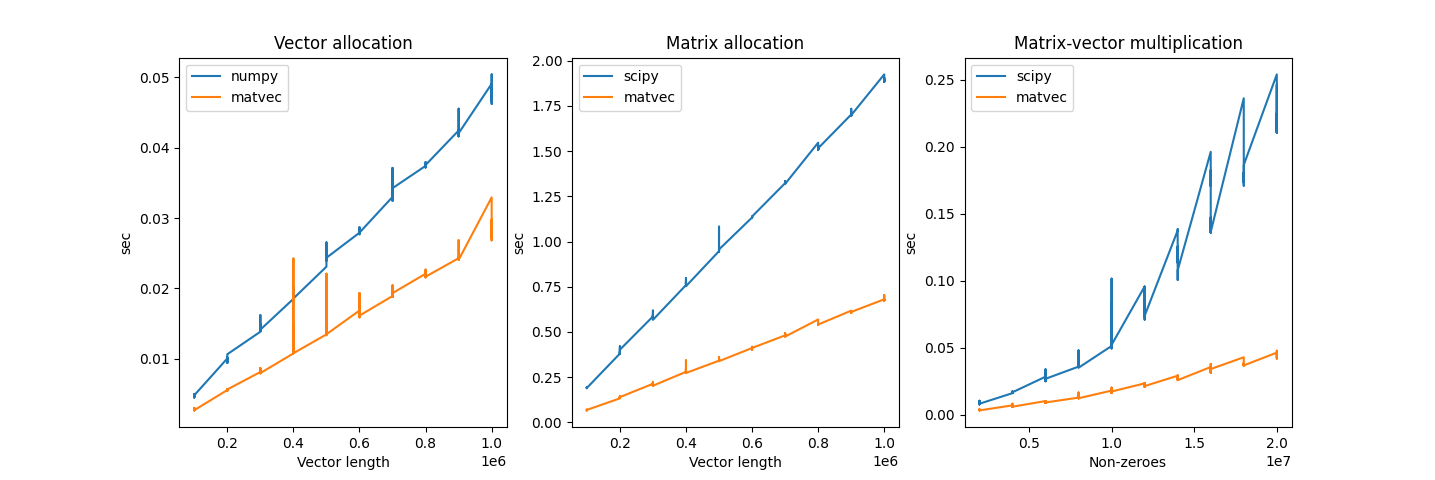
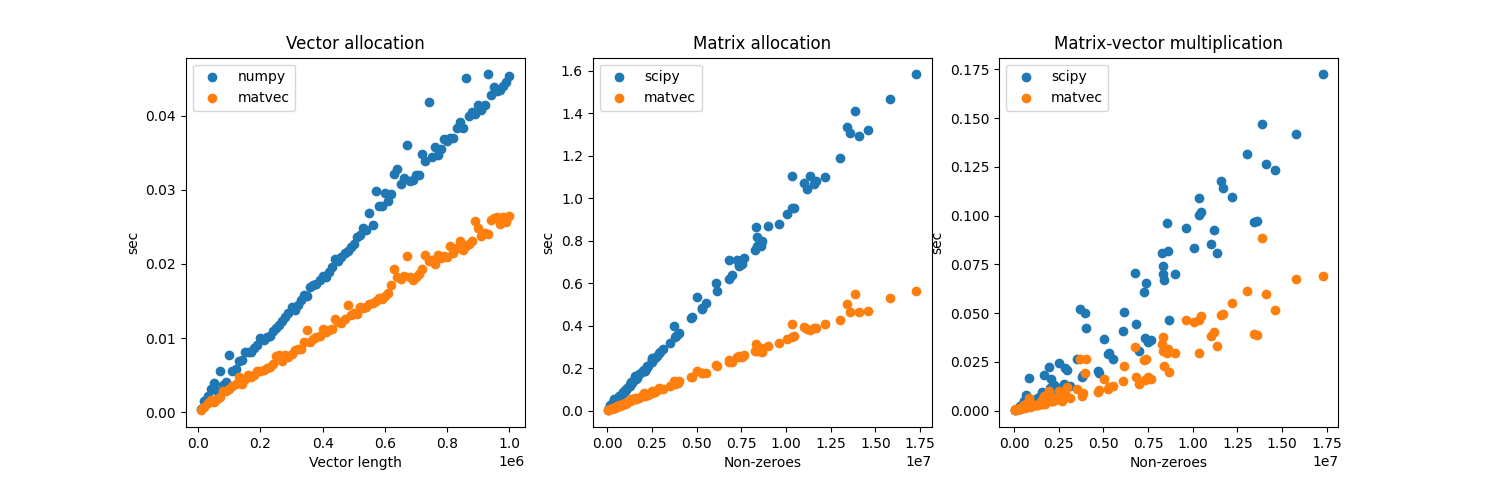
reverted to working version

diff --git a/matvec.cpp b/matvec.cpp
@@ -28,20 +28,13 @@
 std::unordered_map<sizetype, std::vector<valuetype*>*> reusable;
 
 valuetype* allocate_values(sizetype size) {
-    valuetype* pending_values = NULL;
-    #pragma omp critical
-    {
-        if(reusable.find(size)!=reusable.end() && reusable[size]->size()>0) {
-            pending_values = reusable[size]->back();
-            reusable[size]->pop_back();
-        }
+    valuetype* pending_values;
+    if(reusable.find(size)!=reusable.end() && reusable[size]->size()>0) {
+        pending_values = reusable[size]->back();
+        reusable[size]->pop_back();
     }
-    if(pending_values==NULL) {
-        #pragma omp critical
-        {
-            pending_values = new valuetype[size];
-        }
-    }
+    else
+        pending_values = new valuetype[size];
     return pending_values;
 }
 
@@ -136,57 +129,6 @@ extern "C" EXPORT void* multiply(void* _matrix, void* _vector) {
     sizetype* y = matrix->y;
     valuetype* mv = matrix->values;
     valuetype* vv = vector->values;
-    sizetype entries = matrix->entries;
-
-    if(reusable.find(size)==reusable.end())
-        reusable[size] = new std::vector<valuetype*>();
-
-    valuetype** intermediates;
-    int nthreads;
-    #pragma omp parallel shared(intermediates, nthreads, mv, vv, x, y, size)
-    {
-        #pragma omp single
-        {
-            nthreads = omp_get_num_threads();
-            intermediates = new valuetype*[nthreads];
-        }
-        const int ithread = omp_get_thread_num();
-        valuetype* intermediate = allocate_values(size);
-        intermediates[ithread] = intermediate;
-        const sizetype thread_entries = entries/nthreads;
-        const sizetype thread_start = thread_entries*ithread;
-        const sizetype thread_end = (ithread==nthreads-1)?entries:(thread_entries*ithread);
-        for(sizetype j=0;j<size;j++)
-            intermediate[j] = 0;
-        for(sizetype j=thread_start;j<thread_end;j++)
-            intermediate[x[j]] += mv[j]*vv[y[j]];
-    }
-
-    valuetype* ret = intermediates[0];
-    for(int ithread=1;ithread<nthreads;ithread++) {
-        valuetype* intermediate = intermediates[ithread];
-        sizetype i;
-        #pragma omp parallel for shared(size, ret, intermediate) private(i)
-        for(i=0;i<size;i++) {
-            ret[i] += intermediate[i];
-        }
-    }
-    for(int ithread=1;ithread<nthreads;ithread++)
-        reusable[size]->push_back(intermediates[ithread]);
-    delete intermediates;
-
-    return new Vector(ret, size, false);
-}
-
-
-extern "C" EXPORT void* slim_multiply(void* _matrix, void* _vector) {
-    Matrix* matrix = (Matrix*)_matrix;
-    Vector* vector = (Vector*)_vector;
-    sizetype size = vector->size;
-    sizetype* x = matrix->x;
-    sizetype* y = matrix->y;
-    valuetype* mv = matrix->values;
-    valuetype* vv = vector->values;
     valuetype* ret = allocate_values(size);//new valuetype[size]();
     sizetype i;
     #pragma omp parallel for shared(size, ret) private(i)
@@ -194,13 +136,28 @@ extern "C" EXPORT void* slim_multiply(void* _matrix, void* _vector) {
         ret[i] = 0;
     sizetype entries = matrix->entries;
     #pragma omp parallel for shared(entries, ret, x, y, mv, vv) private(i)
-    for(i=0;i<entries;i++)
-        ret[x[i]] += mv[i]*vv[y[i]];
+    for(i=0;i<entries;i++) {
+        valuetype val = mv[i]*vv[y[i]];
+        #pragma omp atomic
+        ret[x[i]] += val;
+    }
+    /*
+    sizetype row;
+    #pragma omp parallel for shared(entries, ret, x, y, mv, vv, matrix) private(row)
+    for(row=0;row<size;row++) {
+        std::vector<sizetype>* adjacent = matrix->row_indexes[row];
+        std::cout<<row<" row\n";
+        for(int j=0;j<adjacent->size();i++) {
+            i = adjacent->at(j);
+            ret[row] += mv[i]*vv[y[i]];
+        }
+    }*/
+
     return new Vector(ret, size, false);
 }
 
 
-extern "C" EXPORT void* slim_rmultiply(void* _matrix, void* _vector) {
+extern "C" EXPORT void* rmultiply(void* _matrix, void* _vector) {
     Matrix* matrix = (Matrix*)_matrix;
     Vector* vector = (Vector*)_vector;
     sizetype size = vector->size;
@@ -217,57 +174,6 @@ extern "C" EXPORT void* slim_rmultiply(void* _matrix, void* _vector) {
     #pragma omp parallel for shared(entries, ret, x, y, mv, vv) private(i)
     for(i=0;i<entries;i++)
         ret[y[i]] += mv[i]*vv[x[i]];
-    return new Vector(ret, size, false);
-}
-
-
-extern "C" EXPORT void* rmultiply(void* _matrix, void* _vector) {
-    Matrix* matrix = (Matrix*)_matrix;
-    Vector* vector = (Vector*)_vector;
-    sizetype size = vector->size;
-    sizetype* x = matrix->x;
-    sizetype* y = matrix->y;
-    valuetype* mv = matrix->values;
-    valuetype* vv = vector->values;
-    sizetype entries = matrix->entries;
-
-    if(reusable.find(size)==reusable.end())
-        reusable[size] = new std::vector<valuetype*>();
-
-    valuetype** intermediates;
-    int nthreads;
-    #pragma omp parallel shared(intermediates, nthreads, mv, vv, x, y, size)
-    {
-        #pragma omp single
-        {
-            nthreads = omp_get_num_threads();
-            intermediates = new valuetype*[nthreads];
-        }
-        const int ithread = omp_get_thread_num();
-        valuetype* intermediate = allocate_values(size);
-        intermediates[ithread] = intermediate;
-        const sizetype thread_entries = entries/nthreads;
-        const sizetype thread_start = thread_entries*ithread;
-        const sizetype thread_end = (ithread==nthreads-1)?entries:(thread_entries*ithread);
-        for(sizetype j=0;j<size;j++)
-            intermediate[j] = 0;
-        for(sizetype j=thread_start;j<thread_end;j++)
-            intermediate[y[j]] += mv[j]*vv[x[j]];
-    }
-
-    valuetype* ret = intermediates[0];
-    for(int ithread=1;ithread<nthreads;ithread++) {
-        valuetype* intermediate = intermediates[ithread];
-        sizetype i;
-        #pragma omp parallel for shared(size, ret, intermediate) private(i)
-        for(i=0;i<size;i++) {
-            ret[i] += intermediate[i];
-        }
-    }
-    for(int ithread=1;ithread<nthreads;ithread++)
-        reusable[size]->push_back(intermediates[ithread]);
-    delete intermediates;
-
     return new Vector(ret, size, false);
 }
 

diff --git a/benchmarks.py b/benchmarks.py
@@ -17,7 +17,7 @@ class Timer:
         self._tic = time()
 
     def __exit__(self, exc_type, exc_val, exc_tb):
-        #matvec.clear()  # cold-start performance
+        matvec.clear()  # cold-start performance
         self.values.append(time()-self._tic)
 
     def mean(self):
@@ -30,11 +30,13 @@ matvec_vector_allocation = Timer()
 matvec_matrix_allocation = Timer()
 matvec_multiply = Timer()
 datasize = list()
+nnzs = list()
 
 for iter in tqdm(range(0, 100)):
-    volume = 100000*(iter//10+1)
+    volume = 10000*(1+iter)
     datasize.append(volume)
-    density = 20#1+random.choice(list(range(20)))
+    density = 1+random.choice(list(range(20)))
+    nnzs.append(volume*density)
     x = np.random.choice(list(range(volume)), volume*density, replace=True)
     y = np.random.choice(list(range(volume)), volume*density, replace=True)
     values = [random.random() for _ in range(volume*density)]
@@ -60,22 +62,22 @@ print(f"Matrix-vector multiplication\t {scipy_multiply.mean():.3f} sec\t {matvec
 
 from matplotlib import pyplot as plt
 plt.subplot(1, 3, 1)
-plt.plot(datasize, numpy_vector_allocation.values, label="numpy")
-plt.plot(datasize, matvec_vector_allocation.values, label="matvec")
+plt.scatter(datasize, numpy_vector_allocation.values, label="numpy")
+plt.scatter(datasize, matvec_vector_allocation.values, label="matvec")
 plt.ylabel("sec")
 plt.xlabel("Vector length")
 plt.legend()
 plt.title("Vector allocation")
 plt.subplot(1, 3, 2)
-plt.plot(datasize, scipy_matrix_allocation.values, label="scipy")
-plt.plot(datasize, matvec_matrix_allocation.values, label="matvec")
+plt.scatter(nnzs, scipy_matrix_allocation.values, label="scipy")
+plt.scatter(nnzs, matvec_matrix_allocation.values, label="matvec")
 plt.ylabel("sec")
-plt.xlabel("Vector length")
+plt.xlabel("Non-zeroes")
 plt.legend()
 plt.title("Matrix allocation")
 plt.subplot(1, 3, 3)
-plt.plot([v*density for v in datasize], scipy_multiply.values, label="scipy")
-plt.plot([v*density for v in datasize], matvec_multiply.values, label="matvec")
+plt.scatter(nnzs, scipy_multiply.values, label="scipy")
+plt.scatter(nnzs, matvec_multiply.values, label="matvec")
 plt.ylabel("sec")
 plt.xlabel("Non-zeroes")
 plt.legend()

diff --git a/matvec/matvec.py b/matvec/matvec.py
@@ -44,8 +44,7 @@ def load_matvec(matvec_libfile, threads=None):
     for operation in [matvec_lib.add, matvec_lib.sub, matvec_lib.v_mult,
                       matvec_lib.v_pow, matvec_lib.v_div, matvec_lib.mask,
                       matvec_lib.equals, matvec_lib.greater, matvec_lib.greater_eq,
-                      matvec_lib.multiply, matvec_lib.rmultiply,
-                      matvec_lib.slim_multiply, matvec_lib.slim_rmultiply]:
+                      matvec_lib.multiply, matvec_lib.rmultiply]:
         operation.argtypes = [c_void_p, c_void_p]
         operation.restype = c_void_p
 
@@ -137,19 +136,6 @@ def multiply(matrix, vec):
     return ret
 
 
-_matvec_mode = "fast"
-
-
-def set_multiplitcation_mode(mode="slim"):
-    _matvec_mode = mode
-    if mode not in ["fast", "slim"]:
-        raise Exception("Invalid matvec multiplication mode: choose either fast or slim")
-
-
-def get_multiplitcation_mode():
-    return _matvec_mode
-
-
 class Matrix(object):
     def __init__(self, x, y, values, size):
         if size > 0:
@@ -187,15 +173,13 @@ class Matrix(object):
         return ret
 
     def __mul__(self, other):
-        mul = matvec_lib.multiply if _matvec_mode == "fast" else matvec_lib.slim_multiply
         ret = Vector()
-        ret.data = mul(self.data, to_vector(other).data)
+        ret.data = matvec_lib.multiply(self.data, to_vector(other).data)
         return ret
 
     def __rmul__(self, other):
-        rmul = matvec_lib.rmultiply if _matvec_mode == "fast" else matvec_lib.slim_rmultiply
         ret = Vector()
-        ret.data = rmul(to_vector(other).data, self.data)
+        ret.data = matvec_lib.rmultiply(to_vector(other).data, self.data)
         return ret
 
     def __len__(self):

diff --git a/setup.py b/setup.py
@@ -27,7 +27,7 @@ class build_ext(build_ext_orig):
 
 setup(
     name='matvec',
-    version='0.1.0',
+    version='0.1.1',
     author="Emmanouil (Manios) Krasanakis",
     author_email="maniospas@hotmail.com",
     description="Fast matrix transforms",
